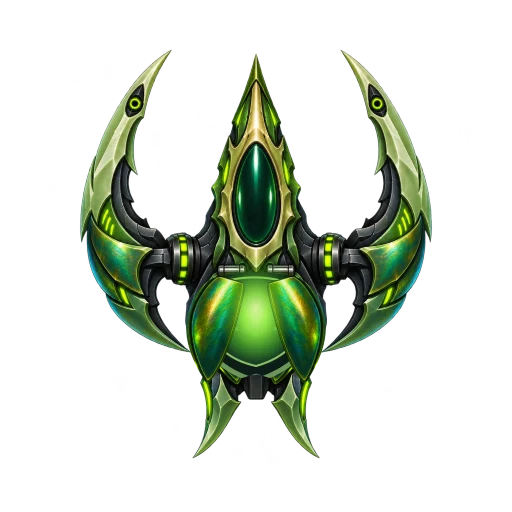
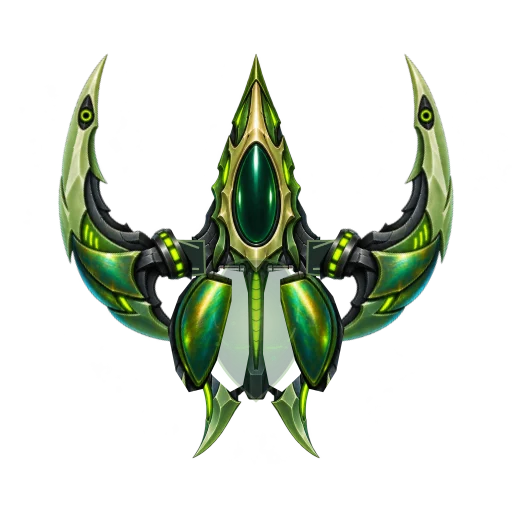
VEXAR's egg forms in the open chamber and springs out (55 new frames)
Claude-Session: https://claude.ai/code/session_01V5LFNy1hPGshkEjr1eYTpR

Changed region(s): [[0.0938, 0.0938, 0.9062, 0.7812]]

diff --git a/app/src/main/assets/index.html b/app/src/main/assets/index.html
@@ -144,12 +144,15 @@ const SHIPS = [
     hull: "#3fae2a", wingC: "#10240f", trim: "#b8ff3a", flame: "#b8ff3a",
     body: [], wing: [], nozzles: [0], engineY: 0.33, cockpit: [0, -0.2, 0.05, 0.1],
     weapons: ["thorn", "hive"],
-    // anchors: thornLeft (166,97), thornRight (347,97), egg chamber (256,321)
-    guns: { thorn: [[-0.211, -0.373], [0.213, -0.373]], hive: [[0, 0.152]] },
+    // anchors: thornLeft (166,97), thornRight (347,97), the egg where it leaves the chamber (256,305)
+    guns: { thorn: [[-0.211, -0.373], [0.213, -0.373]], hive: [[0, 0.1148]] },
     tailY: 0.328,   // where the tail is mounted on the hull (tail-layout.json shipAnchor: pixel y 396)
     anim: { dir: "vexar", size: 1.2, idle: "idle.webp",
       primary:   frames("primary", 5, () => 63, { 2: "left", 4: "right" }),     // 315 ms: left at 63, right at 189
-      secondary: frames("hunt", 15, () => 64, { 8: "fire" }),                   // 960 ms: the egg leaves at 448
+      // the egg forms (vexar-egg-deploy): the wings swing out, the chamber covers peel away, a glowing seed swells in
+      // three pulses into the egg, which wobbles up and springs out at 1,140 ms; the hull shuts (55 frames, 1,650 ms).
+      // The egg itself is drawn over the frames (drawAttachedEgg) until it leaves
+      secondary: frames("hunt", 55, () => 30, { 39: "fire" }),
       shotArt: { thorn: { file: "thorn.webp", size: 0.3 } },                     // 128 px at the hull's scale
       // the egg: pulses while it waits, then cracks and bursts; the insects come out at the "swarm" frame (180 ms).
       // Each egg is one of 4 kinds (picked at random when it is laid, kept to the end): the green "mixed" one holds
@@ -1156,6 +1159,19 @@ function borerThrust(T, held, dt, C) {
   if (T.opening && T.pos >= 1) return "thrust_hold_" + pad(Math.floor(T.hold * 1000 / (C.holdMs / C.hold)) % C.hold + 1) + ".webp";
   if (T.opening) return "thrust_open_" + pad(Math.round(T.pos * (C.open - 1)) + 1) + ".webp";
   return "thrust_close_" + pad(Math.round((1 - T.pos) * (C.close - 1)) + 1) + ".webp";
+}
+// VEXAR's egg forming in the chamber (vexar-egg-deploy.js), ms since the press: where it sits (px of the 512 canvas),
+// its diameter (px), stretch and tilt (its wobble), how much shell shows, and the seed's glow
+function vexarEggPose(ms) {
+  const sm = (x) => { const t = Math.max(0, Math.min(1, x)); return t * t * (3 - 2 * t); }, b = (s0, s1) => sm((ms - s0) / (s1 - s0));
+  const growth = b(210, 430) * 0.32 + b(450, 710) * 0.36 + b(750, 1050) * 0.32, alive = b(225, 360) * (1 - b(1030, 1140)), wobble = Math.sin(ms * 0.024) * alive;
+  return { x: 256 + 5 * wobble, y: 336 - 31 * growth, d: 22 + 96 * growth, stretch: 1 + 0.13 * wobble, tilt: 0.14 * wobble,
+    alpha: b(235, 430) * b(375, 890), seed: b(175, 290) * (1 - b(660, 1020)) };
+}
+// after it leaves: how far it has sprung forward (px), its diameter (px), and the settling wobble, ms since release
+function vexarEggFlight(ms) {
+  const sm = (x) => { const t = Math.max(0, Math.min(1, x)); return t * t * (3 - 2 * t); }, t = Math.max(0, Math.min(1, ms / 460)), settle = 1 - sm(ms / 350);
+  return { dist: 295 * (1 - (1 - t) ** 2.6), d: 118 - 16 * sm((ms - 100) / 360), stretch: 1 + 0.21 * Math.sin(ms * 0.024) * settle, tilt: 0.24 * Math.sin(ms * 0.016) * settle };
 }
 // can BORER start a dive here? gap: from its edge to the star's surface, in ship-lengths
 function starMineCheck(gap, busy, M) { return busy ? "occupied" : !(gap >= 0) || gap > M.reach ? "range" : "ok"; }
@@ -3810,7 +3826,7 @@ function damageShip(n) {
 function blowUpShip() {
   const S = shipById(game.ship);
   if (duel.stage === "on") duel.lost++;
-  game.dead = 3; game.deaths++; game.streak = 0; game.thrust = null; game.anim = null; game.magicWait = false; game.tail = null; game.ring = null; game.grind = null; game.beam = null; game.trap = null; game.rift = null; game.devour = null; game.inked = 0; game.dash = null; game.crossHold = null; game.thread = null; game.flail = null; game.anchor = null; game.vtint = 0; game.scramble = 0; game.reso = null; game.flipT = -1; game.flipMode = 0; game.wbank = {}; game.rail = null; game.hacked = 0; game.burstQ = null; game.steamT = 0; game.magicCool2 = 0; game.slip = null; game.rep = null; game.repPending = null; game.rw = null; game.rwHist = []; game.dash2 = null; game.bomb = null; game.splitUsed = false; game.dive = null; game.puff = null; game.puffJet = null; game.bub = null;
+  game.dead = 3; game.deaths++; game.streak = 0; game.thrust = null; game.anim = null; game.magicWait = false; game.tail = null; game.ring = null; game.grind = null; game.beam = null; game.trap = null; game.rift = null; game.devour = null; game.inked = 0; game.dash = null; game.crossHold = null; game.thread = null; game.flail = null; game.anchor = null; game.vtint = 0; game.scramble = 0; game.reso = null; game.flipT = -1; game.flipMode = 0; game.wbank = {}; game.rail = null; game.hacked = 0; game.burstQ = null; game.steamT = 0; game.magicCool2 = 0; game.slip = null; game.rep = null; game.repPending = null; game.rw = null; game.rwHist = []; game.dash2 = null; game.bomb = null; game.splitUsed = false; game.dive = null; game.puff = null; game.puffJet = null; game.bub = null; game.eggKind = null;
   if (game.soak) { game.soak.held = 0; game.soak.boost = false; }   // ORIAN loses its charge
   if (game.talus) { game.talus.stage = 0; game.talus.from = 0; game.talus.t = 99; game.talus.colors = []; game.talus.ring = 0; }   // TALUS loses what it built
   burstAt(game.x, game.y, 100, ["#ffffff", "#ffd166", S.flame, S.hull, S.trim, "#ff6b35"], 1.5, 1.5, game.vx * 0.5, game.vy * 0.5);
@@ -3971,6 +3987,7 @@ function shoot(i) {
     else if (w === "chord") { }   // (each groove plays its own note as it charges)
     else if (w === "hack") { audio.tone(140, 0.9, "sawtooth", 0.04, 4); audio.tone(2400, 0.04, "square", 0.03, 0.5, 0.35); }   // the shutters slide, the core hums up
     else if (w === "crystal") audio.sfx(S.sfx, "ice_charge");
+    else if (w === "hive") { const ks = Object.keys(A.egg.broods); game.eggKind = ks[Math.floor(Math.random() * ks.length)]; audio.jaws(); }
     else if (w === "seed") { audio.tone(330, 0.4, "triangle", 0.04, 2.2); audio.tone(990, 0.3, "sine", 0.02, 1.5, 0.08); }
     else if (w === "solar") {   // the charge, a click at each mirror's hinge, and the mirrors folding back
       audio.sfx(S.sfx, "solar_charge");
@@ -4145,8 +4162,10 @@ function drawRing(R, S) {
 const eggs = [], hunters = [];
 function layEgg(x, y, Wp, S) {
   const v = Wp.speed * U;
-  const kinds = Object.keys(S.anim.egg.broods), kind = kinds[Math.floor(Math.random() * kinds.length)];
-  const e = { x, y, vx: game.vx * 0.5 + Math.sin(game.ang) * v, vy: game.vy * 0.5 - Math.cos(game.ang) * v, ang: game.ang,
+  const kinds = Object.keys(S.anim.egg.broods), kind = game.eggKind || kinds[Math.floor(Math.random() * kinds.length)];
+  game.eggKind = null;
+  // it springs forward out of the chamber (vexarEggFlight), drifting a little with the ship's speed
+  const e = { x, y, vx: game.vx * 0.5, vy: game.vy * 0.5, ang: game.ang, fl: 0,
     t: 0, ht: -1, crushed: false, w: "hive", ship: S.id, kind };
   eggs.push(e);
   duelSend({ t: "e", ...netPos(e), a: e.ang, s: S.id, k: kind });   // the other phone shows it too (the same kind)
@@ -4163,6 +4182,10 @@ function updateEggs(dt) {
     e.E = A.egg; e.dir = A.dir; e.B = A.egg.broods[e.kind] || A.egg.broods.mixed;
     e.vx *= Math.exp(-dt * 2.2); e.vy *= Math.exp(-dt * 2.2);   // drifts to a stop
     e.x = (((e.x + e.vx * dt) % WW) + WW) % WW; e.y = (((e.y + e.vy * dt) % WH) + WH) % WH;
+    if (e.fl != null && e.fl < 460) {   // springing out of the chamber
+      const a0 = vexarEggFlight(e.fl).dist; e.fl += dt * 1000; const k = (vexarEggFlight(e.fl).dist - a0) * A.size / 512 * size;
+      e.x = (((e.x + Math.sin(e.ang) * k) % WW) + WW) % WW; e.y = (((e.y - Math.cos(e.ang) * k) % WH) + WH) % WH;
+    }
     e.t += dt * 1000;
     const swarm = cueTime(e.B.hatch, "swarm");
     // the enemy flies into it before the hunters are out: crushed, only the shell pieces fly
@@ -4213,15 +4236,28 @@ function releaseHunters(e, Wp) {
       frames: I.flight, color: I.color, d: e.E.hunterSize, dir: e.dir, phase: i * 70, remote: !!e.remote });
   });
 }
+// VEXAR's egg growing in the open chamber, over the ship's frames, until it leaves (kind: which egg)
+function drawAttachedEgg(o, S, a, kind, x, y, size) {
+  if (!a || a.seq !== "secondary" || !S.anim || !S.anim.egg || a.t >= 1140) return;
+  const P = vexarEggPose(a.t), B = S.anim.egg.broods[kind] || S.anim.egg.broods.mixed, k = S.anim.size / 512 * size;
+  ctx.save(); ctx.translate(x, y); ctx.rotate(o.ang); ctx.scale(k, k); ctx.translate(P.x - 256, P.y - 256); ctx.rotate(P.tilt); ctx.scale(1 / Math.sqrt(P.stretch), P.stretch);
+  if (P.seed > 0) {   // the glowing seed it grows from
+    const g = ctx.createRadialGradient(0, 0, 0, 0, 0, P.d * 0.68); g.addColorStop(0, "rgba(241,255,188,0.97)"); g.addColorStop(0.37, "rgba(168,255,94,0.62)"); g.addColorStop(1, "rgba(76,240,87,0)");
+    ctx.globalAlpha = P.seed; ctx.fillStyle = g; ctx.fillRect(-P.d, -P.d, P.d * 2, P.d * 2);
+  }
+  const img = artImage(framePath(S.anim.dir, B.pulse[Math.floor(a.t / 75) % B.pulse.length][0]));
+  if (img && P.alpha > 0) { ctx.globalAlpha = P.alpha; ctx.drawImage(img, -P.d / 2, -P.d / 2, P.d, P.d); }
+  ctx.restore();
+}
 function drawEggs() {
   const size = shipSize();
   for (const e of eggs) {
-    const p = toScreen(e.x, e.y), d = e.E.size * size;
     if (!e.B) continue;
+    const F = vexarEggFlight(e.fl == null ? 999 : e.fl), A = shipById(e.ship).anim, p = toScreen(e.x, e.y), d = e.fl == null ? e.E.size * size : F.d * A.size / 512 * size;
     const seq = e.ht < 0 ? e.B.pulse : e.B.hatch, t = e.ht < 0 ? e.t % seqLength(e.B.pulse) : e.ht, f = seqFrame(seq, t);
     const img = f >= 0 && artImage(framePath(e.dir, seq[f][0]));
     if (!img) continue;
-    ctx.save(); ctx.translate(p.x, p.y); ctx.rotate(e.ang); ctx.drawImage(img, -d / 2, -d / 2, d, d); ctx.restore();
+    ctx.save(); ctx.translate(p.x, p.y); ctx.rotate(e.ang + F.tilt); ctx.scale(1 / Math.sqrt(F.stretch), F.stretch); ctx.drawImage(img, -d / 2, -d / 2, d, d); ctx.restore();
   }
   for (const h of hunters) {
     const p = toScreen(h.x, h.y), d = h.d * size, f = seqFrame(h.frames, (h.life * 1000 + h.phase) % seqLength(h.frames));
@@ -6396,6 +6432,7 @@ function draw() {
       if (shown === S) drawDevour(game, S, game.devour);
       if (shown === S) drawDash();
       if (shown === S) drawChordGuides();
+      if (shown === S) drawAttachedEgg(game, S, game.anim, game.eggKind, p.x + r.x, p.y + bob + r.y, shipSize() * sc);
       if (shown === S && game.bub) drawHeldBubble(game, game.bub.t * 1000);
       if (shown === S && trapOpen()) drawSuck(game, S);
       if (shown === S && S.clouds) drawNimbusClouds(game, game.anim, "me");
@@ -6646,6 +6683,7 @@ function drawEnemy() {
       anim: enemy.remote ? enemy.anim : null, out: !!enemy.out, ring: enemy.remote && duel.ring ? duel.ring.phase : null,
       grind: enemy.remote ? duel.grind : null });
     if (dv) ctx.restore();
+    if (enemy.remote && duel.net) drawAttachedEgg(enemy, E, enemy.anim, duel.net.ek, p.x, p.y, size * esc);   // their VEXAR's egg forming
     drawInkOn(p.x, p.y, size, (enemy.inked || 0) / MAGIC.ink.stun, 1.7);
     drawRewind(p.x, p.y, size, !!enemy.rw || enemy.rwShow > 0);
     if (E.clouds) drawNimbusClouds(enemy, enemy.remote ? enemy.anim : null, "enemy");
@@ -7644,7 +7682,7 @@ function duelLink(event, data) {
       art: art ? { src: framePath(S.anim.dir, art.file), d: art.size, spin: art.spin || 0, frames: art.frames && art.frames.map((f) => framePath(S.anim.dir, f)) } : null });
     if (duel.shots.length < 60) audio.shot(m.w);
   } else if (m.t === "e" && shipById(m.s)) {   // they laid an egg
-    eggs.push({ x: m.x * WW, y: m.y * WH, vx: m.vx * WW, vy: m.vy * WH, ang: m.a, t: 0, ht: -1, crushed: false, w: "hive", ship: m.s, kind: m.k || "mixed", remote: true });
+    eggs.push({ x: m.x * WW, y: m.y * WH, vx: m.vx * WW, vy: m.vy * WH, ang: m.a, fl: 0, t: 0, ht: -1, crushed: false, w: "hive", ship: m.s, kind: m.k || "mixed", remote: true });
   } else if (m.t === "cv" && shipById(m.s) && Array.isArray(m.p)) {   // their KRAAL's crossing bolts (their phone counts the blast)
     const q = m.p; crosses.push({ w: m.w, ship: m.s, t: 0, remote: true, life: m.l, a: { x: q[0] * WW, y: q[1] * WH }, b: { x: q[2] * WW, y: q[3] * WH }, f: { x: q[4] * WW, y: q[5] * WH } });
     audio.sfx("kraal", "cross_launch", 0, 0.7);
@@ -7836,7 +7874,7 @@ function updateDuel(dt) {
     const a = game.anim;
     link.send({ t: "s", s: game.ship, ...netPos(game), a: +game.ang.toFixed(3), p: +game.power.toFixed(2), o: game.sputter > 0 ? 1 : 0,
       hp: Math.round(game.hp), d: game.dead > 0 ? 1 : 0, an: a ? [a.seq, Math.round(a.t)] : 0, mp: game.magicPour > 0 ? 1 : 0,
-      hd: game.hidden > 0 ? 1 : 0, vt: game.vtint || 0, sc: game.scramble > 0 ? 1 : 0, hf: game.splitUsed ? 1 : 0, bb: game.bub ? Math.round(game.bub.t * 1000) : 0, pf: game.puff ? [["up", "full", "down", "flat"].indexOf(game.puff.st), Math.round(game.puff.t * 1000)] : 0, dv: game.dive ? Math.max(1, Math.round(game.dive.t * 1000)) : 0, cd: game.dash2 ? [Math.round(game.dash2.t * 1000), game.dash2.dir] : 0, hk: game.hacked > 0 ? 1 : 0, stm: game.steamT > 0 ? 1 : 0, vs: vShieldUp(game) ? 1 : 0, rp: repState(), rw: game.rw ? 1 : 0,
+      hd: game.hidden > 0 ? 1 : 0, vt: game.vtint || 0, sc: game.scramble > 0 ? 1 : 0, hf: game.splitUsed ? 1 : 0, ek: game.eggKind || 0, bb: game.bub ? Math.round(game.bub.t * 1000) : 0, pf: game.puff ? [["up", "full", "down", "flat"].indexOf(game.puff.st), Math.round(game.puff.t * 1000)] : 0, dv: game.dive ? Math.max(1, Math.round(game.dive.t * 1000)) : 0, cd: game.dash2 ? [Math.round(game.dash2.t * 1000), game.dash2.dir] : 0, hk: game.hacked > 0 ? 1 : 0, stm: game.steamT > 0 ? 1 : 0, vs: vShieldUp(game) ? 1 : 0, rp: repState(), rw: game.rw ? 1 : 0,
       gh: game.rep && game.rep.echo && game.rep.echo.ghost ? [+(game.rep.echo.ghost.x / WW).toFixed(5), +(game.rep.echo.ghost.y / WH).toFixed(5), +game.rep.echo.ghost.ang.toFixed(3), game.rep.echo.ghost.form, +game.rep.echo.ghost.age.toFixed(2)] : 0, fm: +hullTurn().toFixed(3), tl: game.tail ? +game.tail.t.toFixed(2) : -1, h: +duel.outDmg.toFixed(1),
       rg: game.ring ? [game.ring.phase, +(game.ring.x / WW).toFixed(5), +(game.ring.y / WH).toFixed(5), game.ring.vx / WW, game.ring.vy / WH,
         +game.ring.ang.toFixed(3), +game.ring.lift.toFixed(2)] : 0,
@@ -8071,7 +8109,7 @@ function hitHangar(x, y) { if (!HANGAR) return false; const b = hangarBtn(); ret
 function tryShip(id) {
   game.ship = id;
   if (game.starMine) { game.starMine = null; duelSend({ t: "sm", on: 0 }); }
-  game.anim = null; game.tail = null; game.ring = null; game.grind = null; game.beam = null; game.trap = null; game.rift = null; game.devour = null; game.inked = 0; game.dash = null; game.crossHold = null; game.thread = null; game.flail = null; game.anchor = null; game.vtint = 0; game.scramble = 0; game.reso = null; game.flipT = -1; game.flipMode = 0; game.wbank = {}; game.rail = null; game.hacked = 0; game.burstQ = null; game.steamT = 0; game.magicCool2 = 0; game.slip = null; game.rep = null; game.repPending = null; game.rw = null; game.rwHist = []; game.dash2 = null; game.bomb = null; game.splitUsed = false; game.dive = null; game.puff = null; game.puffJet = null; game.bub = null;
+  game.anim = null; game.tail = null; game.ring = null; game.grind = null; game.beam = null; game.trap = null; game.rift = null; game.devour = null; game.inked = 0; game.dash = null; game.crossHold = null; game.thread = null; game.flail = null; game.anchor = null; game.vtint = 0; game.scramble = 0; game.reso = null; game.flipT = -1; game.flipMode = 0; game.wbank = {}; game.rail = null; game.hacked = 0; game.burstQ = null; game.steamT = 0; game.magicCool2 = 0; game.slip = null; game.rep = null; game.repPending = null; game.rw = null; game.rwHist = []; game.dash2 = null; game.bomb = null; game.splitUsed = false; game.dive = null; game.puff = null; game.puffJet = null; game.bub = null; game.eggKind = null;
   game.soak = null; game.magicCool = 0; game.magicPour = 0; game.hidden = 0; game.magicWait = false; game.fire = [null, null, null];
   game.talus = { stage: 0, from: 0, t: 99, ring: 0, contact: false, colors: [] };
   game.fuel = shipStats(shipById(id)).fuel; game.locked = false; game.hp = SHIP_HP; fillAmmo();

diff --git a/tests/ship.test.js b/tests/ship.test.js
@@ -9,8 +9,8 @@ const html = fs.readFileSync(path.join(__dirname, "../app/src/main/assets/index.
 const settings = html.slice(html.indexOf("const HOLD_ANGLE"), html.indexOf("// <logic>"));
 const logic = html.slice(html.indexOf("// <logic>"), html.indexOf("// </logic>"));
 const box = {};
-vm.runInNewContext(settings + logic + "\nObject.assign(box,{HOLD_ANGLE,DEAD_ZONE,SHIPS,RARITY,chooseShip,tiltOf,controlFromTilt,shipById,headingTarget,turnToward,wrapAngle,wrapDelta,gravityAt,shipStats,fuelColor,fuelStep,enemyControl,UNLOCK,WEAPONS,LOOT,MAGIC,lootOf,weaponsOf,gunsOf,rotatePt,ammoStep,pelletAngles,steerShot,enemySees,seqFrame,seqLength,cueTime,ramDamage,SHIP_HP,RAM_DAMAGE,stickHeading,tailOut,ringPhase,pulseGlow,SFX,tailPieces,grindPhase,BODIES,nextBody,talusScale,GROW,orianPanels,soakCharges,inTrap,enemyGuns,crossReach,segDistance,threadPhase,phaseChord,shutterPose,stormPose,rainbowPose,vPose,slidePose,repriseForms,reprisePose,puffPose,cinderEngines,starMinePose,starMineCheck,bubbleCharge,borerThrust,puffFrame,PUFF_SPINES,borerDrill,borerLegs,lensPull,rollFleet,emailSeed,killReward});", { box, Math, Object, parseInt });
-const { HOLD_ANGLE, SHIPS, starMinePose, starMineCheck, bubbleCharge, borerThrust, puffFrame, PUFF_SPINES, borerDrill, borerLegs, lensPull, RARITY, chooseShip, tiltOf, controlFromTilt, shipById, headingTarget, turnToward, wrapAngle, wrapDelta, gravityAt, shipStats, fuelColor, fuelStep, enemyControl, UNLOCK, WEAPONS, LOOT, MAGIC, lootOf, weaponsOf, gunsOf, rotatePt, ammoStep, pelletAngles, steerShot, enemySees, seqFrame, seqLength, cueTime, ramDamage, SHIP_HP, RAM_DAMAGE, stickHeading, tailOut, ringPhase, pulseGlow, SFX, tailPieces, grindPhase, BODIES, nextBody, talusScale, GROW, orianPanels, soakCharges, inTrap, enemyGuns, crossReach, segDistance, threadPhase, phaseChord, shutterPose, stormPose, rainbowPose, vPose, slidePose, repriseForms, reprisePose, puffPose, cinderEngines, rollFleet, emailSeed, killReward } = box;
+vm.runInNewContext(settings + logic + "\nObject.assign(box,{HOLD_ANGLE,DEAD_ZONE,SHIPS,RARITY,chooseShip,tiltOf,controlFromTilt,shipById,headingTarget,turnToward,wrapAngle,wrapDelta,gravityAt,shipStats,fuelColor,fuelStep,enemyControl,UNLOCK,WEAPONS,LOOT,MAGIC,lootOf,weaponsOf,gunsOf,rotatePt,ammoStep,pelletAngles,steerShot,enemySees,seqFrame,seqLength,cueTime,ramDamage,SHIP_HP,RAM_DAMAGE,stickHeading,tailOut,ringPhase,pulseGlow,SFX,tailPieces,grindPhase,BODIES,nextBody,talusScale,GROW,orianPanels,soakCharges,inTrap,enemyGuns,crossReach,segDistance,threadPhase,phaseChord,shutterPose,stormPose,rainbowPose,vPose,slidePose,repriseForms,reprisePose,puffPose,cinderEngines,starMinePose,starMineCheck,bubbleCharge,vexarEggPose,vexarEggFlight,borerThrust,puffFrame,PUFF_SPINES,borerDrill,borerLegs,lensPull,rollFleet,emailSeed,killReward});", { box, Math, Object, parseInt });
+const { HOLD_ANGLE, SHIPS, starMinePose, starMineCheck, bubbleCharge, vexarEggPose, vexarEggFlight, borerThrust, puffFrame, PUFF_SPINES, borerDrill, borerLegs, lensPull, RARITY, chooseShip, tiltOf, controlFromTilt, shipById, headingTarget, turnToward, wrapAngle, wrapDelta, gravityAt, shipStats, fuelColor, fuelStep, enemyControl, UNLOCK, WEAPONS, LOOT, MAGIC, lootOf, weaponsOf, gunsOf, rotatePt, ammoStep, pelletAngles, steerShot, enemySees, seqFrame, seqLength, cueTime, ramDamage, SHIP_HP, RAM_DAMAGE, stickHeading, tailOut, ringPhase, pulseGlow, SFX, tailPieces, grindPhase, BODIES, nextBody, talusScale, GROW, orianPanels, soakCharges, inTrap, enemyGuns, crossReach, segDistance, threadPhase, phaseChord, shutterPose, stormPose, rainbowPose, vPose, slidePose, repriseForms, reprisePose, puffPose, cinderEngines, rollFleet, emailSeed, killReward } = box;
 const rad = (d) => d * Math.PI / 180;
 // gravity sensor values for a phone tipped `pitch` degrees up from flat and `roll` degrees right-edge-down
 const g = (pitch, roll = 0) => [-Math.sin(rad(roll)) * 9.81, Math.cos(rad(roll)) * Math.sin(rad(pitch)) * 9.81, Math.cos(rad(roll)) * Math.cos(rad(pitch)) * 9.81];
@@ -158,10 +158,12 @@ ok("every THUL drawing the game asks for is in art/ships/thul/", () => {
   const all = [A.idle, ...[A.primary, A.secondary, A.smoke].flatMap((q) => q.map((x) => x[0])), A.shotArt.iris.file];
   for (const f of all) assert(fs.existsSync(path.join(dir, f.includes(".") ? f : f + ".png")), f);
 });
-ok("VEXAR (vexar-animation.json): thorns at 63 and 189 ms, the egg at 448 ms, hunters at 180 ms into the hatch", () => {
+ok("VEXAR (vexar-animation.json): thorns at 63 and 189 ms, the egg at 1,140 ms, hunters at 180 ms into the hatch", () => {
   const A = SHIPS.find((s) => s.id === "vexar").anim;
   assert.strictEqual(seqLength(A.primary), 315); assert.strictEqual(cueTime(A.primary, "left"), 63); assert.strictEqual(cueTime(A.primary, "right"), 189);
-  assert.strictEqual(seqLength(A.secondary), 960); assert.strictEqual(cueTime(A.secondary, "fire"), 448);
+  assert.strictEqual(seqLength(A.secondary), 1650); assert.strictEqual(cueTime(A.secondary, "fire"), 1140);
+  assert.strictEqual(vexarEggPose(1140).y, 305); assert.strictEqual(vexarEggPose(1140).d, 118); assert.ok(vexarEggPose(0).alpha === 0);
+  assert.strictEqual(vexarEggFlight(0).dist, 0); assert.strictEqual(Math.round(vexarEggFlight(460).dist), 295); assert.strictEqual(vexarEggFlight(460).d, 102);
   for (const k of ["mixed", "ember", "azure", "prism"]) {
     const B = A.egg.broods[k];
     assert.strictEqual(seqLength(B.pulse), 600); assert.strictEqual(seqLength(B.hatch), 540); assert.strictEqual(cueTime(B.hatch, "swarm"), 180);
@@ -174,7 +176,7 @@ ok("VEXAR (vexar-animation.json): thorns at 63 and 189 ms, the egg at 448 ms, hu
 ok("VEXAR muzzles match the drawing's anchors", () => {
   const S = SHIPS.find((s) => s.id === "vexar"), px = (v) => Math.round(v / S.anim.size * 512 + 256);
   const [l, r] = gunsOf(S, "thorn"), [e] = gunsOf(S, "hive");
-  assert.deepStrictEqual([px(l[0]), px(l[1]), px(r[0]), px(r[1]), px(e[0]), px(e[1])], [166, 97, 347, 97, 256, 321]);
+  assert.deepStrictEqual([px(l[0]), px(l[1]), px(r[0]), px(r[1]), px(e[0]), px(e[1])], [166, 97, 347, 97, 256, 305]);
 });
 ok("every VEXAR drawing the game asks for is in art/ships/vexar/", () => {
   const A = SHIPS.find((s) => s.id === "vexar").anim, dir = path.join(__dirname, "../app/src/main/assets/art/ships", A.dir);

diff --git a/README.md b/README.md
@@ -229,6 +229,10 @@ the crossing shot the middle plate lifts on the hot core and the pods turn inwar
 KRAAL's crossing shot meets BEHIND it, against the way it is flying (hold to push the point farther back): it hits what
 chases it while it gets away. Hardly moving, the point is behind its tail (`crossPoint`).
 
+VEXAR's egg forms in the open (vexar-egg-deploy): the wings swing out, the chamber covers peel away, a glowing seed
+swells in three pulses into the egg (its kind is picked at the press), which wobbles up and springs out at 1,140 ms
+(55 frames, 1,650 ms); outside it settles and incubates as before.
+
 **App icon:** `app/src/main/res/mipmap-*/` (a rounded-square and a round one, and an adaptive icon: the picture in
 `ic_launcher_foreground.png` on the dark `ic_launcher_background` colour).
 
